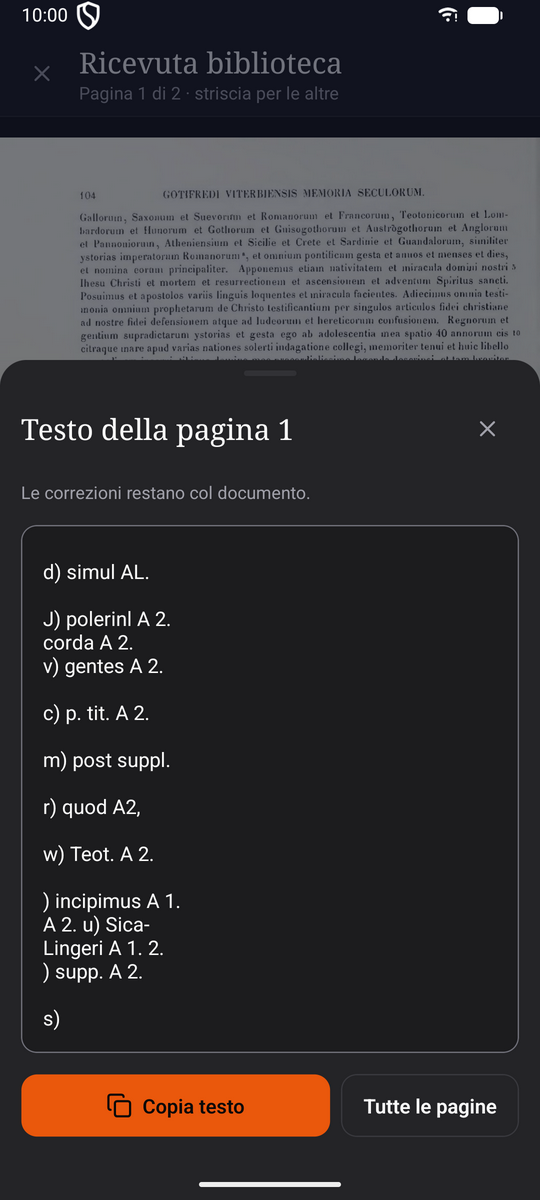
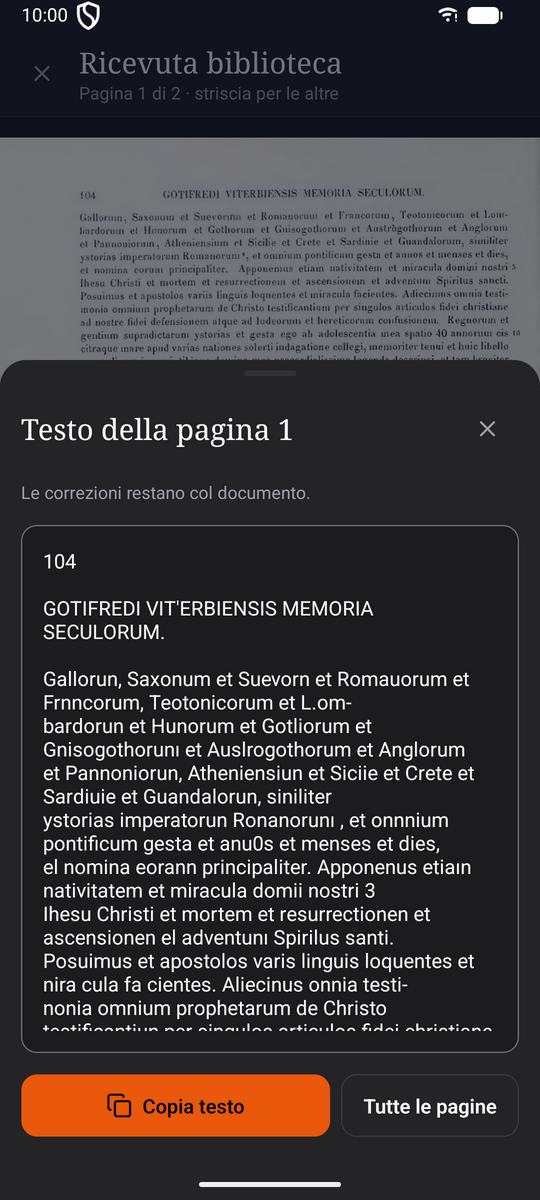
wiki: schermata del testo riconosciuto dall'inizio della pagina

Changed region(s): [[0.0593, 0.4625, 0.8889, 0.8633], [0.8, 0.8017, 0.8296, 0.8325]]

diff --git a/docs/wiki/guida/scanner.md b/docs/wiki/guida/scanner.md
@@ -244,8 +244,8 @@ corregge nel riquadro (la correzione resta col documento) e si copia con **Copia
 ![Il testo riconosciuto di una pagina, correggibile, con «Copia testo» e «Tutte le pagine»](/img/telefono-testo-scuro.png){.dark-only .telefono}
 
 Il riconoscimento è pensato per la stampa moderna in alfabeto latino. Su un'edizione ottocentesca
-come quella della figura legge gran parte del testo e sbaglia le note; su una scrittura a mano
-serve a poco.
+come quella della figura legge le parole ma ne storpia parecchie («Gallorun», «Frnncorum»): va
+riletto prima di copiarlo. Su una scrittura a mano serve a poco.
 
 ### Condividere o salvare
 

diff --git a/docs/wiki/en/guide/scanner.md b/docs/wiki/en/guide/scanner.md
@@ -247,8 +247,8 @@ can correct the result in the box (the correction stays with the document) and c
 ![The recognised text of a page, editable, with «Copia testo» and «Tutte le pagine»](/img/telefono-testo-scuro.png){.dark-only .telefono}
 
 Recognition is built for modern print in the Latin alphabet. On a nineteenth-century edition like
-the one in the picture it reads most of the text and gets the footnotes wrong; on handwriting it
-is of little use.
+the one in the picture it reads the words but mangles quite a few («Gallorun», «Frnncorum»), so
+check it before copying. On handwriting it is of little use.
 
 ### Sharing or saving
 
